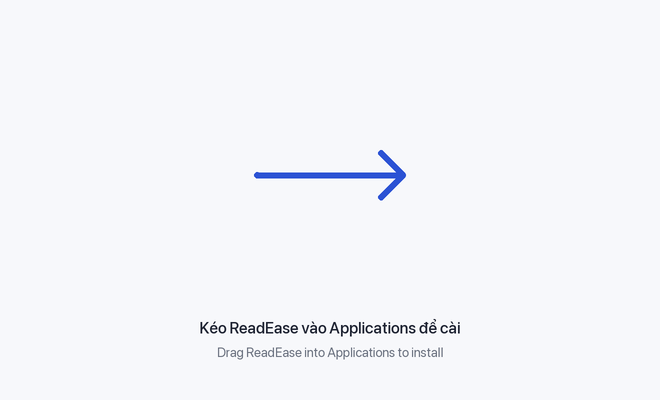
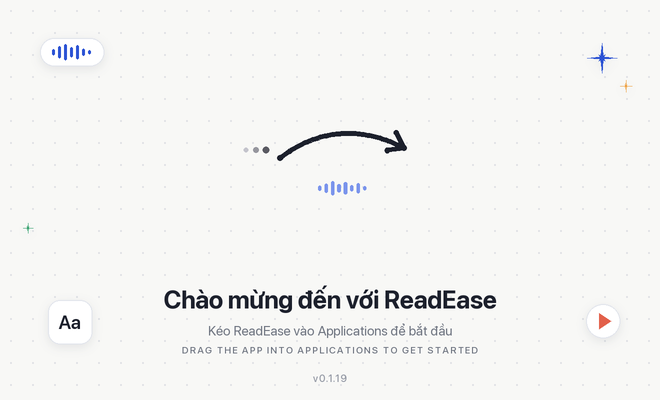
Disk image: a welcome instead of a diagram
The owner asked for a prettier install window, after the OneNotch one. The
backdrop is now a quiet dotted paper with the two icons a little higher, a
hand-drawn ink arrow with a trail of dots and a brand-blue sound wave under
it (words becoming a voice), a few soft marks at the edges (a sound-wave
chip, "Aa", sparkles, a play mark), "Chào mừng đến với ReadEase", the
drag instruction in Vietnamese and in spaced English capitals, and the
version. The release build draws it for the version it packs and falls back
to the committed picture.

diff --git a/scripts/build-dmg-background.py b/scripts/build-dmg-background.py
@@ -1,77 +1,160 @@
 #!/usr/bin/env python3
-"""Draw the disk image's backdrop: app on the left, Applications on the
-right, the brand-blue arrow between them, one line saying what to do.
+"""Draw the disk image's backdrop (redesigned 07/10/2026).
 
-    .venv/bin/python scripts/build-dmg-background.py
+    .venv/bin/python scripts/build-dmg-background.py [--version 0.1.19] [--out DIR]
 
-Writes `assets/branding/dmg-background.png` (660x400) and its `@2x` twin,
-which `build-release-app.sh` folds into one HiDPI TIFF for `dmgbuild`. The
-icon slots match `scripts/dmg-settings.py`: the image only draws around
-them. The caption is set in the system's own San Francisco - a Finder
-window is the Mac's, not the app's, and the app's web fonts ship only as
-subsets that PIL cannot fall back between; the colours are the design
-system's (blue b100, the light neutral ramp).
+A welcome, not a diagram: a quiet dotted paper, the app on the left and
+Applications on the right (`scripts/dmg-settings.py` places both icons; the
+picture only draws around them), a hand-drawn ink arrow between them with a
+small brand-blue sound wave under it - words becoming a voice - a few
+floating marks at the edges, a two-line welcome and the version.
+
+Writes `dmg-background.png` (660x400) and its `@2x` twin into
+`assets/branding` (or `--out`), which dmgbuild folds into one HiDPI TIFF.
+The version defaults to `app/src-tauri/tauri.conf.json`; the release build
+draws the picture for the version it packs. The type is the system's own San
+Francisco - a Finder window is the Mac's, not the app's - and the colours are
+the design system's (blue b100, the light neutral ramp).
 """
 
 from __future__ import annotations
 
+import argparse
+import json
+import math
 from pathlib import Path
 
-from PIL import Image, ImageDraw, ImageFont
+from PIL import Image, ImageDraw, ImageFilter, ImageFont
 
 ROOT = Path(__file__).resolve().parent.parent
 SYSTEM_FONT = Path("/System/Library/Fonts/SFNS.ttf")
 OUT = ROOT / "assets/branding"
 
 W, H = 660, 400          # the Finder window's content area (dmg-settings.py)
-SCALE = 2                # drawn at 2x, saved at both
-APP_X, APPS_X, ICON_Y = 165, 495, 175   # icon centres, as dmg-settings.py places them
+S = 2                    # drawn at 2x, saved at both
+APP_X, APPS_X, ICON_Y = 165, 495, 150   # icon centres, as dmg-settings.py places them
 
-PAPER = (247, 248, 251)  # light neutral, close to the app's own desk
-INK = (31, 36, 51)
-MUTE = (107, 114, 128)
+PAPER = (248, 248, 246)
+DOT = (222, 224, 228)
+INK = (28, 32, 44)
+MUTE = (112, 118, 130)
 BRAND = (43, 82, 212)    # blue b100, the brand since 21/09
+BRAND_SOFT = (122, 148, 236)
+AMBER = (238, 160, 62)
+CORAL = (226, 96, 74)
+GREEN = (52, 160, 108)
 
 
-def font(weight: str, size: int) -> ImageFont.FreeTypeFont:
+def font(weight: str, size: float) -> ImageFont.FreeTypeFont:
     """San Francisco at a named weight (it is a variable font)."""
-    face = ImageFont.truetype(str(SYSTEM_FONT), size * SCALE)
+    face = ImageFont.truetype(str(SYSTEM_FONT), round(size * S))
     face.set_variation_by_name(weight)
     return face
 
 
-def draw() -> Image.Image:
-    image = Image.new("RGB", (W * SCALE, H * SCALE), PAPER)
+def centred(d: ImageDraw.ImageDraw, text: str, f, y: float, fill, tracking: float = 0) -> None:
+    """One line, centred, with optional letter-spacing in points."""
+    gap = tracking * S
+    width = sum(d.textlength(ch, font=f) for ch in text) + gap * (len(text) - 1)
+    x = (W * S - width) / 2
+    for ch in text:
+        d.text((x, y * S), ch, font=f, fill=fill)
+        x += d.textlength(ch, font=f) + gap
+
+
+def sparkle(d: ImageDraw.ImageDraw, cx: float, cy: float, r: float, fill) -> None:
+    """A four-pointed star: two pinched diamonds."""
+    pts = []
+    for i in range(16):
+        a = math.pi / 8 * i
+        rr = r if i % 4 == 0 else r * (0.18 if i % 2 else 0.32)
+        pts.append(((cx + rr * math.cos(a)) * S, (cy + rr * math.sin(a)) * S))
+    d.polygon(pts, fill=fill)
+
+
+def bars(d: ImageDraw.ImageDraw, x: float, cy: float, heights, fill, w: float = 3.2, gap: float = 3.2) -> None:
+    for h in heights:
+        d.rounded_rectangle([x * S, (cy - h / 2) * S, (x + w) * S, (cy + h / 2) * S], radius=w / 2 * S, fill=fill)
+        x += w + gap
+
+
+def bezier(p0, p1, p2, steps: int = 64):
+    for i in range(steps + 1):
+        t = i / steps
+        yield ((1 - t) ** 2 * p0[0] + 2 * (1 - t) * t * p1[0] + t * t * p2[0],
+               (1 - t) ** 2 * p0[1] + 2 * (1 - t) * t * p1[1] + t * t * p2[1])
+
+
+def draw(version: str) -> Image.Image:
+    image = Image.new("RGB", (W * S, H * S), PAPER)
     d = ImageDraw.Draw(image)
-    s = SCALE
 
-    # The arrow: a bar and a chevron, rounded, in the brand's blue.
-    y = ICON_Y * s
-    x0, x1 = (APP_X + 92) * s, (APPS_X - 92) * s
-    stroke = 6 * s
-    d.line([(x0, y), (x1 - 4 * s, y)], fill=BRAND, width=stroke)
-    head = 22 * s
-    d.line([(x1 - head, y - head), (x1, y), (x1 - head, y + head)], fill=BRAND, width=stroke, joint="curve")
-    for cx, cy in ((x0, y), (x1 - head, y - head), (x1 - head, y + head)):
-        d.ellipse([cx - stroke / 2, cy - stroke / 2, cx + stroke / 2, cy + stroke / 2], fill=BRAND)
+    # Dotted paper.
+    for gx in range(11, W, 22):
+        for gy in range(11, H, 22):
+            d.ellipse([(gx - 0.9) * S, (gy - 0.9) * S, (gx + 0.9) * S, (gy + 0.9) * S], fill=DOT)
 
-    # One line in each language, under the icons and their labels.
-    title = font("Medium", 16)
-    sub = font("Regular", 13)
-    line1 = "Kéo ReadEase vào Applications để cài"
-    line2 = "Drag ReadEase into Applications to install"
-    for text, f, fill, yy in ((line1, title, INK, 318), (line2, sub, MUTE, 344)):
-        width = d.textlength(text, font=f)
-        d.text(((W * s - width) / 2, yy * s), text, font=f, fill=fill)
+    # Floating marks at the edges, each a little soft, none near an icon.
+    marks = Image.new("RGBA", image.size, (0, 0, 0, 0))
+    m = ImageDraw.Draw(marks)
+    # top-left: a sound-wave chip
+    m.rounded_rectangle([40 * S, 38 * S, 104 * S, 66 * S], radius=14 * S, fill=(255, 255, 255, 255), outline=(226, 229, 236, 255), width=S)
+    bars(m, 52, 52, (6, 12, 16, 10, 14, 7, 4), BRAND + (255,), w=2.6, gap=3.4)
+    # bottom-left: the letters the voice reads
+    m.rounded_rectangle([48 * S, 300 * S, 92 * S, 344 * S], radius=12 * S, fill=(255, 255, 255, 255), outline=(226, 229, 236, 255), width=S)
+    m.text((70 * S, 322 * S), "Aa", font=font("Semibold", 19), fill=INK + (255,), anchor="mm")
+    # right edge: sparkles and a small play mark
+    sparkle(m, 602, 58, 15, BRAND + (255,))
+    sparkle(m, 626, 86, 6, AMBER + (255,))
+    m.ellipse([586 * S, 304 * S, 620 * S, 338 * S], fill=(255, 255, 255, 255), outline=(226, 229, 236, 255), width=S)
+    m.polygon([(599 * S, 313 * S), (599 * S, 329 * S), (611 * S, 321 * S)], fill=CORAL + (255,))
+    sparkle(m, 28, 228, 5, GREEN + (255,))
+    shadow = marks.split()[3].filter(ImageFilter.GaussianBlur(5 * S)).point(lambda a: a * 0.10)
+    image.paste((40, 48, 70), (0, 3 * S), shadow)
+    image.paste(marks, (0, 0), marks)
+    d = ImageDraw.Draw(image)
+
+    # The arrow: a trail of dots, then one ink stroke with a bend in it.
+    for i, (dx, shade) in enumerate(((246, 196), (256, 150), (266, 90))):
+        r = 2.4 + i * 0.5
+        d.ellipse([(dx - r) * S, (ICON_Y - r) * S, (dx + r) * S, (ICON_Y + r) * S], fill=(shade, shade, shade + 8))
+    p0, p1, p2 = (280, ICON_Y + 8), (338, ICON_Y - 36), (404, ICON_Y - 2)
+    pts = [(x * S, y * S) for x, y in bezier(p0, p1, p2)]
+    stroke = 5.2 * S
+    d.line(pts, fill=INK, width=round(stroke), joint="curve")
+    for x, y in (pts[0], pts[-1]):
+        d.ellipse([x - stroke / 2, y - stroke / 2, x + stroke / 2, y + stroke / 2], fill=INK)
+    angle = math.atan2(p2[1] - p1[1], p2[0] - p1[0])
+    for side in (1, -1):
+        a = angle + math.pi - side * 0.62
+        tip = (p2[0] * S, p2[1] * S)
+        end = (tip[0] + 17 * S * math.cos(a), tip[1] + 17 * S * math.sin(a))
+        d.line([tip, end], fill=INK, width=round(stroke))
+        d.ellipse([end[0] - stroke / 2, end[1] - stroke / 2, end[0] + stroke / 2, end[1] + stroke / 2], fill=INK)
+    # ... and under it, the voice.
+    heights = (5, 9, 14, 8, 12, 6, 10, 4)
+    total = len(heights) * 3.2 + (len(heights) - 1) * 3.2
+    bars(d, (W - total) / 2 + 12, ICON_Y + 38, heights, BRAND_SOFT)
+
+    # The welcome.
+    centred(d, "Chào mừng đến với ReadEase", font("Bold", 25), 284, INK)
+    centred(d, "Kéo ReadEase vào Applications để bắt đầu", font("Regular", 13.5), 322, MUTE)
+    centred(d, "DRAG THE APP INTO APPLICATIONS TO GET STARTED", font("Medium", 9.5), 344, MUTE, tracking=1.4)
+    centred(d, f"v{version}", font("Medium", 10), 372, (150, 155, 166), tracking=0.6)
     return image
 
 
 def main() -> None:
-    OUT.mkdir(parents=True, exist_ok=True)
-    image = draw()
-    image.save(OUT / "dmg-background@2x.png", optimize=True)
-    image.resize((W, H), Image.LANCZOS).save(OUT / "dmg-background.png", optimize=True)
-    print(f"DMG_BACKGROUND PASS {W}x{H} and @2x -> {OUT.relative_to(ROOT)}")
+    parser = argparse.ArgumentParser()
+    parser.add_argument("--version")
+    parser.add_argument("--out", type=Path, default=OUT)
+    args = parser.parse_args()
+    version = args.version or json.loads((ROOT / "app/src-tauri/tauri.conf.json").read_text())["version"]
+    args.out.mkdir(parents=True, exist_ok=True)
+    image = draw(version)
+    image.save(args.out / "dmg-background@2x.png", optimize=True)
+    image.resize((W, H), Image.LANCZOS).save(args.out / "dmg-background.png", optimize=True)
+    print(f"DMG_BACKGROUND PASS {W}x{H} and @2x, v{version} -> {args.out}")
 
 
 if __name__ == "__main__":

diff --git a/scripts/dmg-settings.py b/scripts/dmg-settings.py
@@ -47,6 +47,6 @@ show_icon_preview = False
 arrange_by = None
 scroll_position = (0, 0)
 icon_locations = {
-    "ReadEase.app": (165, 175),
-    "Applications": (495, 175),
+    "ReadEase.app": (165, 150),
+    "Applications": (495, 150),
 }

diff --git a/docs/readease-hig.md b/docs/readease-hig.md
@@ -1799,8 +1799,11 @@ mình (Sparkle là chuẩn; Tauri có `tauri-plugin-updater` 2.12.0 + `tauri-plu
   `TAURI_SIGNING_PRIVATE_KEY_PASSWORD_READEASE`, không bao giờ in) → `.sig` → `latest.json` { version, notes, pub_date
   RFC 3339, platforms."darwin-aarch64".{signature, url} } với url = asset của release. Release phải upload **zip + dmg +
   tar.gz + latest.json**. Thiếu khoá thì script bỏ qua bước này và nói rõ.
-- **Cửa sổ `.dmg` có nền** (22/09, Phase 3): app bên trái, Applications bên phải, mũi tên xanh brand ở giữa và một dòng
-  "Kéo ReadEase vào Applications để cài" (VI + EN) — `assets/branding/dmg-background.png` + `@2x` (vẽ bằng
+- **Cửa sổ `.dmg` có nền** (22/09, Phase 3; vẽ lại 07/10 theo kiểu "lời chào"): giấy chấm mờ, app bên trái,
+  Applications bên phải (tâm icon y=150), mũi tên mực nét tay có vệt chấm và một sóng âm xanh brand bên dưới
+  (chữ thành tiếng), vài dấu nổi ở mép (sóng âm, "Aa", lấp lánh, nút phát), tiêu đề "Chào mừng đến với ReadEase",
+  dòng VI "Kéo ReadEase vào Applications để bắt đầu", dòng EN viết hoa giãn chữ và số phiên bản. Bản build vẽ lại
+  nền cho đúng phiên bản đang đóng gói (`--version`), hỏng thì dùng ảnh đã commit — `assets/branding/dmg-background.png` + `@2x` (vẽ bằng
   `scripts/build-dmg-background.py`, chữ SF của hệ vì cửa sổ Finder là của Mac, không phải của app), bố cục
   `scripts/dmg-settings.py` cho `dmgbuild` (qua `uvx`, ghim 1.6.7): nó tự viết `.DS_Store`, gộp TIFF HiDPI bằng
   `tiffutil`, gắn icon volume, mount `-nobrowse` — không mở cửa sổ Finder nào lúc build. Không có `uvx` thì về ảnh
